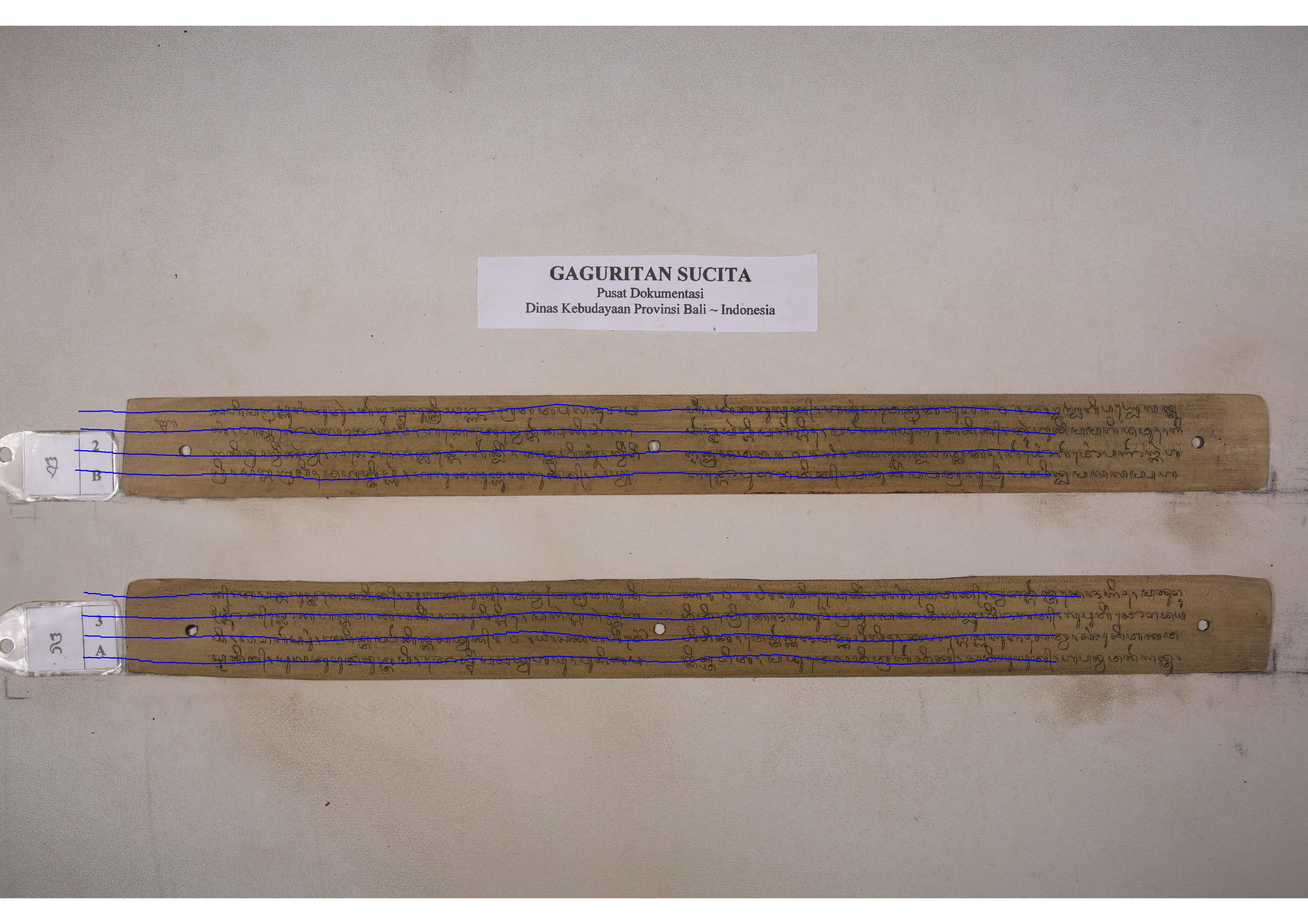
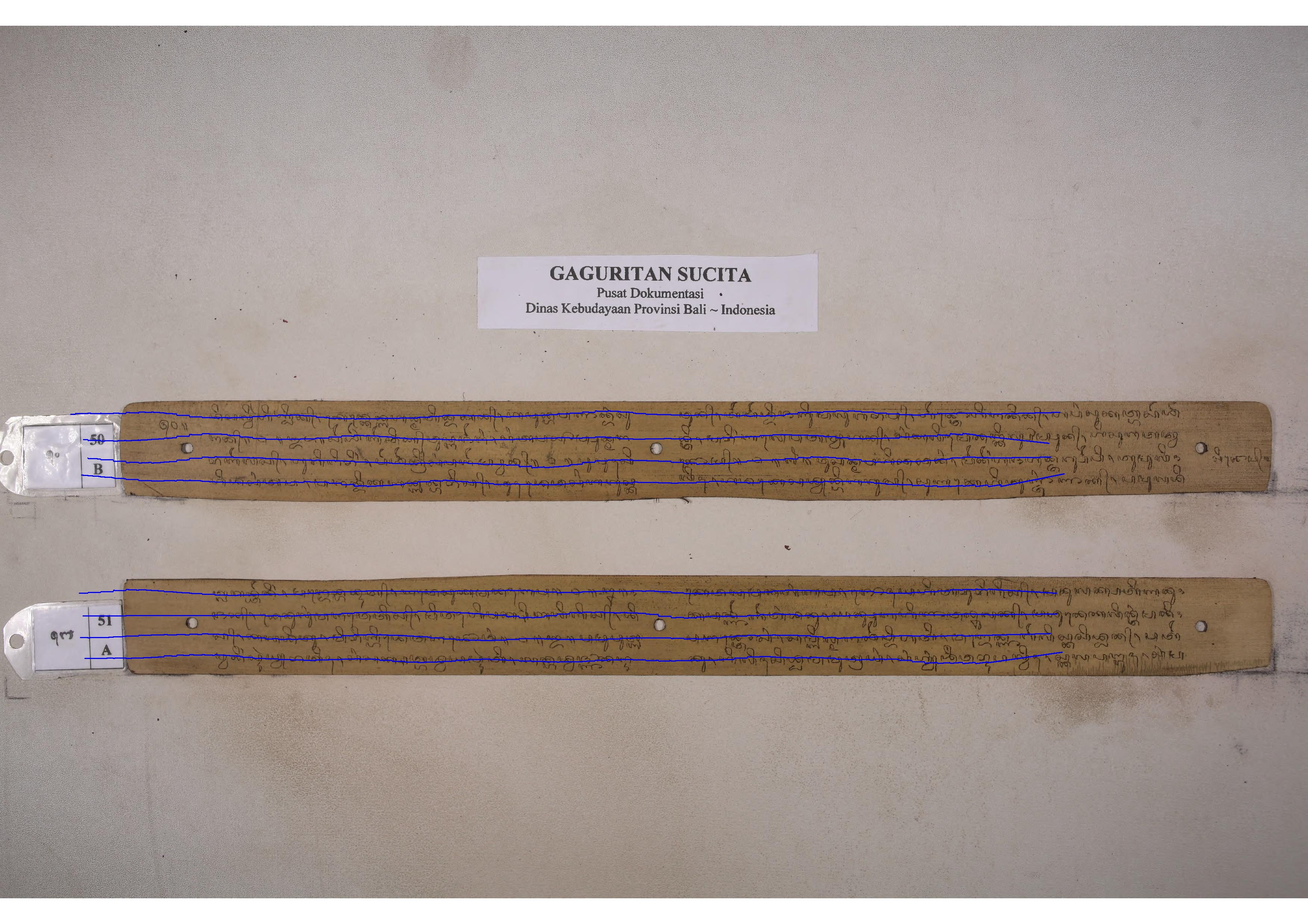
working!

Changed region(s): [[0.0, 0.4038, 0.9943, 0.5591], [0.0, 0.6212, 0.9943, 0.7455]]

diff --git a/client/src/components/viewer3.js b/client/src/components/viewer3.js
@@ -82,27 +82,52 @@ const Drawer = styled(MuiDrawer, { shouldForwardProp: (prop) => prop !== 'open' 
 const defaultTheme = createTheme();
 
 export default function Dashboard() {
-    let { collectionName } = useParams()
+    let { collectionName, ctgName } = useParams()
     const [open, setOpen] = React.useState(true);
     const [currentIndex, setCurrentIndex] = useState(0);
-    const [annotation, setAnnotation] = useState(null)
+    const [annotationNames, setAnnotationNames] = useState(0);
+    const [annotation, setAnnotation] = useState("scribbles")
     const [loading, setLoading] = useState(true)
     const toggleDrawer = () => {
         setOpen(!open);
     };
+    console.log("annotation was set to " + annotation)
     const [imageSrc, setImageSrc] = useState("")
     useEffect(() => {
-        // Fetch categories from backend API
+        // Fetch annotation names from backend API
+        const fetchAnnotationNames = async () => {
+            try {
+                const annotationNamesResponse = await fetch("http://127.0.0.1:5000/fetch_annotation_names", {
+                    method: "GET",
+                    headers: {
+                        "ctgName": ctgName,
+                        "collectionName": collectionName,
+                        "imgIdx": currentIndex,
+                        "split": "train",
+                    }
+                });
+
+                if (!annotationNamesResponse.ok) {
+                    throw new Error("Failed to fetch annotation names");
+                }
+                const annotationNamesJSON = await annotationNamesResponse.json();
+                const annotationNames = annotationNamesJSON.annotation_names; 
+                setAnnotationNames(annotationNames)
+                console.log("Received annotation names:", annotationNames);
+            } catch (error) {
+                console.error("Error fetching annotation names:", error);
+            }
+        };
         const fetchAnnotation = async () => {
             try {
                 const response = await fetch("http://127.0.0.1:5000/fetch_annotation", {
                     method: "GET",
                     headers: {
-                        "ctgName": "palm_leaves",
-                        "collectionName": "TB",
-                        "imgIdx": "0",
+                        "ctgName": ctgName,
+                        "collectionName": collectionName,
+                        "imgIdx": currentIndex,
                         "split": "train",
-                        "annotation": "scribbles"
+                        "annotation": annotation
                     }
                 });
                 if (!response.ok) {
@@ -118,9 +143,11 @@ export default function Dashboard() {
             }
         };
 
+        fetchAnnotationNames();
         fetchAnnotation();
-    }, []);
+    }, [annotation, ctgName, collectionName, currentIndex]);
 
+    console.log("currentIndex is set to " + currentIndex)
 
 
     useEffect(() => {
@@ -136,17 +163,17 @@ export default function Dashboard() {
       }, [imageSrc]);
 
     const handleNext = () => {
-        setCurrentIndex((prevIndex) => (prevIndex + 1) % images.length);
+        setCurrentIndex((prevIndex) => (prevIndex + 1)); 
     };
 
     const handlePrevious = () => {
-        setCurrentIndex((prevIndex) => (prevIndex === 0 ? images.length - 1 : prevIndex - 1));
+        setCurrentIndex((prevIndex) => (prevIndex - 1)); 
     };
 
 
-    // if (loading) {
-    //     return <div id="image-gallery">Loading...</div>;
-    // }
+    if (loading) {
+        return <div id="image-gallery">Loading...</div>;
+    }
 
     return (
         <ThemeProvider theme={defaultTheme}>
@@ -184,7 +211,7 @@ export default function Dashboard() {
                 <Drawer variant="permanent" open={true}>
                     {/* <Divider /> */}
                     <List component="nav">
-                        <MainListItems annotation={annotation} setAnnotation={setAnnotation} />
+                        <MainListItems annotation={annotation} setAnnotation={setAnnotation} annotationNames={annotationNames} />
                     </List>
                 </Drawer>
                 <Box
@@ -213,7 +240,7 @@ export default function Dashboard() {
                                         />
                                         <CardContent>
                                             <Typography variant="h6" component="div">
-                                                {"hello"}
+                                                {currentIndex}
                                             </Typography>
                                             {/* You can add more details about the collection here */}
                                         </CardContent>

diff --git a/client/src/components/listItems.js b/client/src/components/listItems.js
@@ -10,18 +10,21 @@ const generateListItems = (labels, todoPrefix, selected, setSelected) => {
     return labels.map((label, index) => (
         <ListItemButton key={index} onClick={() => setSelected(label)}>
             <ListItemText primary={label} />
-            <Radio checked={selected === label} />
+            <Radio checked={selected === label} onChange={() => {
+                setSelected(label)
+            }} />
         </ListItemButton>
     ));
 };
 
 // Define the labels for the main list items
-const mainListLabels = ['Dashboard', 'Orders', 'Customers', 'Reports', 'Integrations'];
 
-const MainListItems = ({ annotation, setAnnotation }) => {
+const MainListItems = ({ annotation, setAnnotation, annotationNames }) => {
+    // console.log("the list was re-rendered!")
+    // console.log("annotationNames: " + annotationNames)
     return (
         <React.Fragment>
-            {generateListItems(mainListLabels, 'Main Checkbox', annotation, setAnnotation)}
+            {generateListItems(annotationNames, 'Main Checkbox', annotation, setAnnotation)}
         </React.Fragment>
     );
 };

diff --git a/server/main.py b/server/main.py
@@ -91,11 +91,14 @@ def fetch_img_data():
     ctg_name = request.headers['ctgName']
     collection_name = request.headers['collectionName']
     annotation_name = request.headers['annotation']
-    assert annotation_name in ANNOTATION_TYPES
-    img_name = get_file_name_by_idx(int(request.headers['imgIdx']))
     split = request.headers['split']
-    
+    assert annotation_name in ANNOTATION_TYPES
+    # print(f"the index requested was {request.headers["imgIdx"]}")
     imgs_list = os.listdir(osp.join(DATASETS_DIR, ctg_name, collection_name, split))
+    imgs_list = [img_name for img_name in imgs_list if img_name.find(".pkl") == -1]
+    # equal number of pickle files and images
+    num_images = len(imgs_list)
+    img_name = get_file_name_by_idx(int(request.headers['imgIdx']), num_images)
     img_name = [img_path for img_path in imgs_list if img_path.find(img_name) != -1][0]
     img_path = osp.join(DATASETS_DIR, ctg_name, collection_name, split, img_name)
     print(f"img_path: {img_path}")
@@ -129,7 +132,63 @@ def fetch_img_data():
     
     return send_file("annotation.jpg", mimetype="image/jpeg")
 
+
+@app.route("/fetch_annotation_names", methods=["GET"])
+def fetch_annotation_names():
+    if not osp.exists(osp.join(CLIENT_IMAGES, "current")):
+        os.mkdir(osp.join(CLIENT_IMAGES, "current"))
+
+    # Check if the "collectionName" header exists in the request
+    if 'ctgName' not in request.headers:
+        return 'Error: "ctgName" header not found', 400  # Return a 400 Bad Request status if the header is missing
+    if 'collectionName' not in request.headers:
+        return 'Error: "collectionName" header not found', 400  # Return a 400 Bad Request status if the header is missing
+    if 'imgIdx' not in request.headers:
+        return 'Error: "imgIdx" header not found', 400  # Return a 400 Bad Request status if the header is missing
+    if 'split' not in request.headers:
+        return 'Error: "split" header not found', 400  # Return a 400 Bad Request status if the header is missing
+
+    # ctg_name = request.headers['ctgName']
+    # collection_name = request.headers['collectionName']
+    # img_name = get_file_name_by_idx(int(request.headers['imgIdx']))
+    # split = request.headers['split']
     
+    # imgs_list = os.listdir(osp.join(DATASETS_DIR, ctg_name, collection_name, split))
+    # img_name = [img_path for img_path in imgs_list if img_path.find(img_name) != -1][0]
+    # img_path = osp.join(DATASETS_DIR, ctg_name, collection_name, split, img_name)
+    # print(f"img_path: {img_path}")
+    # if not osp.exists(img_path):
+    #     return 'Error: the given image does not exist!'
+
+    ctg_name = request.headers['ctgName']
+    collection_name = request.headers['collectionName']
+    split = request.headers['split']
+    # print(f"the index requested was {request.headers["imgIdx"]}")
+    imgs_list = os.listdir(osp.join(DATASETS_DIR, ctg_name, collection_name, split))
+    imgs_list = [img_name for img_name in imgs_list if img_name.find(".pkl") == -1]
+    # equal number of pickle files and images
+    num_images = len(imgs_list)
+    img_name = get_file_name_by_idx(int(request.headers['imgIdx']), num_images)
+    img_name = [img_path for img_path in imgs_list if img_path.find(img_name) != -1][0]
+    img_path = osp.join(DATASETS_DIR, ctg_name, collection_name, split, img_name)
+    print(f"img_path: {img_path}")
+    if not osp.exists(img_path):
+        return 'Error: the given image does not exist!'
+
+    plain_img = cv2.imread(img_path)
+    assert plain_img is not None 
+
+    with open(osp.join(DATASETS_DIR, ctg_name, collection_name, split, img_name.split(".")[0] + ".pkl"), "rb") as f:
+        img_data = pickle.load(f) 
+
+    assert img_data is not None
+
+    annotation_names = list(img_data.keys()) 
+    res_json = {
+        "annotation_names": annotation_names
+    }
+
+    return jsonify(res_json), 200
 
 
 # Run the application
